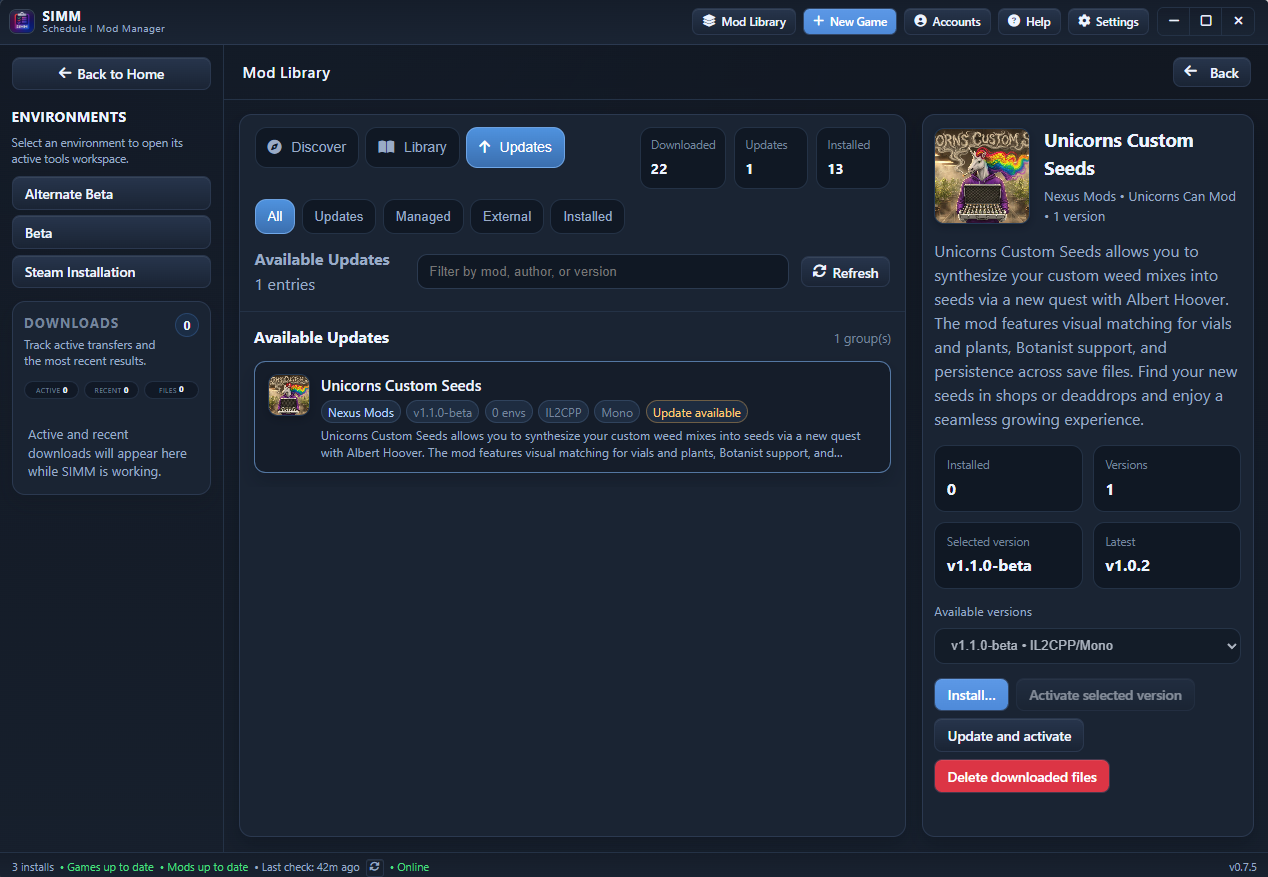
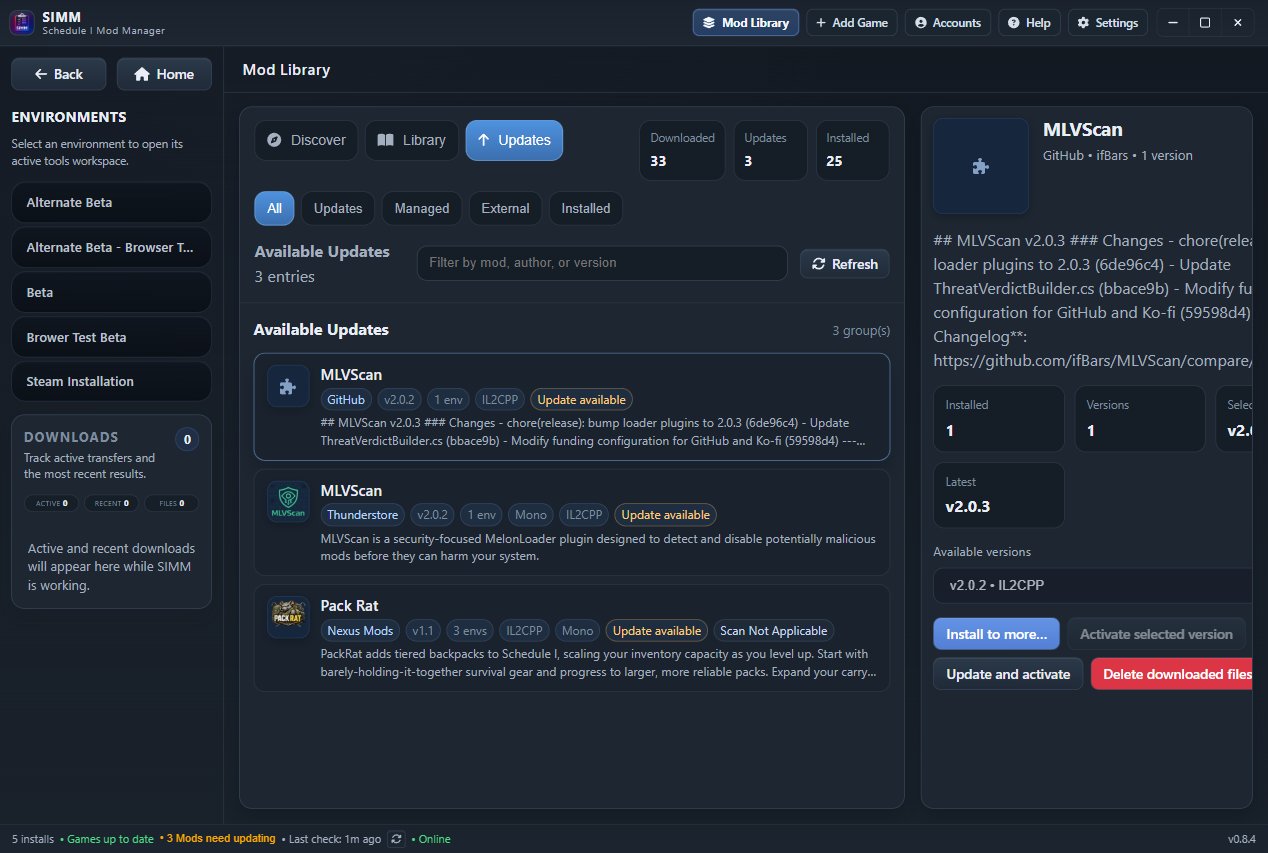
Use bun for Tauri builds; update docs/screenshots
Switch CI build steps from npm to bun for Tauri Windows/NSIS builds (updated .github/workflows/publish-beta-release.yml, publish-release.yml, windows-exe.yml). Updated CHANGELOG.md with new release notes (0.8.5–0.8.1) — note the file contains merge conflict markers from a merge/stash. Replaced a set of screenshots under assets/screenshots (multiple PNGs updated).

diff --git a/CHANGELOG.md b/CHANGELOG.md
@@ -1,5 +1,60 @@
 # Changelog
 
+<<<<<<< Updated upstream
+=======
+## [0.8.5]
+
+- Began the next UI redesign pass while refining release flow behavior, frontend contract sync, featured Thunderstore library curation, and related commit message handling.
+- Expanded the redesign into a new desktop workspace shell with a Home dashboard/news feed, reusable page headers, collapsible sidebar sections, focused environment interactions, refreshed overlay layouts, and supporting UI polish across the app.
+- Added installed-mod scan visibility, safer mod-path/security handling, and clearer UI loading states while tightening Mods and Logs behavior around the new shell.
+- Polished the configuration editor, downloads, MLVScan, logs, settings, and shared shell UX while reducing rerenders and commit cost in the heaviest desktop overlays.
+- Expanded the configuration catalog so SIMM now discovers nested `.cfg` and `.json` files inside the game's `Mods` directory and groups them by mod folder for clearer editor organization.
+- Started the Tailwind v4 + shadcn base-nova migration with shared SIMM primitives, migrated key desktop surfaces onto the new component foundation, and added opt-in React Scan profiling for frontend performance work.
+- Switched the frontend/dev workflow guidance over to `bun`/`bunx`, added project ESLint configuration, fixed mod source links and mod ownership checks, and temporarily disabled featured downloads until package data finishes loading.
+- Continued the shadcn/base-nova rollout across the app shell, Mods workspace, and Mod Library while tightening modal/dialog handling, navigation-state flow, and related shell behavior.
+- Added repo-local SIMM Codex workflow tooling with focused skills, playbooks, and validation helpers for desktop UI review, IPC contracts, runtime-library work, Nexus FOMOD debugging, and release updating.
+- Fixed managed-mod metadata precedence so installed mods prefer package/source details correctly, and replaced time-based archive temp directories with UUID-backed paths to avoid extraction collisions.
+- Finished the current CSS cleanup pass across the desktop shell and migrated surfaces, stabilizing layouts across viewports, pruning dead Tailwind-migration CSS, and aligning authentication, wizard, environment, plugin, welcome, and security-report screens with the newer shadcn/base-nova styling.
+- Improved runtime resilience by handling replayed Nexus OAuth callbacks safely, detecting uploaded mod archive types from file signatures before install/update flows proceed, and protecting ZIP extraction from path traversal during mod installs.
+- Tightened reviewed backend and desktop-shell behavior by preserving runtime-aware update fan-out, copied-storage ownership, installed scan summaries, rotated-log watching, security-scan overlay reset behavior, and other async/dialog polish surfaced during review.
+- Pinned the validated Bun toolchain in CI/docs, aligned release metadata around that workflow, and extended archive hardening so unsafe RAR entries are rejected before extraction.
+- Refined the Mod Library and Logs tools with smoother library workflows, tighter status alignment, and upward chunk loading so very large log files can be browsed without losing context.
+- Fixed ModsOverlay list structure and scrolling behavior inside environment overlays, stabilizing layout/CSS so long mod lists avoid clipping and remain usable across desktop viewports.
+- Hardened stored mod-state recovery by handling invalid storage metadata and metadata load failures more defensively instead of letting malformed package data break the app flow.
+- Contributors:
+  - `SirTidez`: release-flow refinement, frontend contract sync, featured SteamNetworkLib curation, related commit-message handling, nested Mods config catalog discovery/grouping, continued shadcn shell adoption across the app shell and mod workspaces, navigation-state and modal-flow fixes, repo-local SIMM Codex workflow tooling, managed-mod metadata precedence fixes, UUID-based temp-directory collision prevention during installs, ModsOverlay list-structure/layout CSS fixes for environment-overlay scrolling, ZIP-extraction path-traversal protection for mod installs, matching RAR-entry path-safety hardening before extraction, and defensive handling for invalid storage metadata and metadata load failures. Timestamps: `2026-05-03 17:27:10 PDT`, `2026-05-03 17:49:35 PDT`, `2026-05-03 18:12:00 PDT`, `2026-05-08 03:07:59 PDT`, `2026-05-08 19:19:22 PDT`, `2026-05-09 03:01:43 PDT`, `2026-05-09 03:14:24 PDT`, `2026-05-13 23:17:09 PDT`, `2026-05-15 03:09:17 PDT`, `2026-05-16 02:14:14 PDT`, `2026-05-16 12:27:08 PDT`
+  - `ifBars`: initial UI redesign work for the next release line, Home dashboard/news feed, new workspace shell and reusable page headers, collapsible sidebar navigation, installed-mod scanning and safer path/security flows, configuration/downloads/MLVScan/logs/settings polish, Tailwind v4 + shadcn migration scaffolding, shell/log/config performance work, `bun`/`bunx` workflow updates, ESLint setup, mods/webpanel fixes for source links, ownership checks, and featured-download loading states, finished CSS cleanup across migrated shell surfaces, stabilized cross-viewport desktop layout behavior, pruned dead Tailwind-migration CSS, refined Mod Library workflows/status alignment, added replay-safe Nexus OAuth callback handling, detected mod archive formats from file signatures, enabled upward chunk loading for large logs, preserved runtime-aware update/mod-watch behavior during review fixes, tightened async/dialog/accessibility handling across reviewed UI surfaces, reset security-scan overlay state on reopen, and pinned Bun plus release metadata to the validated workflow. Timestamps: `2026-05-04 01:38:44 PDT`, `2026-05-04 23:33:07 PDT`, `2026-05-04 23:41:24 PDT`, `2026-05-06 13:14:24 PDT`, `2026-05-06 18:29:16 PDT`, `2026-05-07 11:30:58 PDT`, `2026-05-07 11:34:33 PDT`, `2026-05-07 11:38:06 PDT`, `2026-05-07 11:39:52 PDT`, `2026-05-07 11:42:23 PDT`, `2026-05-07 11:45:32 PDT`, `2026-05-07 11:47:01 PDT`, `2026-05-07 11:51:51 PDT`, `2026-05-07 16:41:55 PDT`, `2026-05-07 16:56:07 PDT`, `2026-05-07 17:08:59 PDT`, `2026-05-07 17:16:10 PDT`, `2026-05-07 17:18:19 PDT`, `2026-05-07 17:32:55 PDT`, `2026-05-07 17:40:45 PDT`, `2026-05-07 17:45:38 PDT`, `2026-05-07 17:49:35 PDT`, `2026-05-07 17:51:48 PDT`, `2026-05-07 18:02:00 PDT`, `2026-05-07 18:13:07 PDT`, `2026-05-07 18:27:20 PDT`, `2026-05-07 21:48:13 PDT`, `2026-05-07 21:54:23 PDT`, `2026-05-10 19:56:54 PDT`, `2026-05-10 19:57:04 PDT`, `2026-05-10 21:51:20 PDT`, `2026-05-10 21:53:20 PDT`, `2026-05-10 21:53:29 PDT`, `2026-05-10 22:42:03 PDT`, `2026-05-10 23:22:33 PDT`, `2026-05-10 23:27:23 PDT`, `2026-05-12 22:05:00 PDT`, `2026-05-15 16:00:35 PDT`, `2026-05-15 16:00:52 PDT`, `2026-05-15 16:01:11 PDT`, `2026-05-15 18:30:29 PDT`, `2026-05-15 18:30:37 PDT`, `2026-05-15 19:43:17 PDT`
+
+## [0.8.4]
+
+- Finalized the `0.8.4` release bump by configuring FontAwesome in the app.
+- Contributors:
+  - `SirTidez`: `0.8.4` versioning work and FontAwesome configuration. Timestamps: `2026-04-22 22:40:35 PDT`
+
+## [0.8.3]
+
+- Added automatic prerequisite installation with more reliable `winget` path resolution during environment setup.
+- Lazy-loaded workspace panels, replaced older icon usage with FontAwesome, and refined the desktop workspace sidebar copy and styling.
+- Added a shared Thunderstore service and startup state handling while expanding Nexus Mods integration and UI behavior.
+- Contributors:
+  - `SirTidez`: prerequisite auto-install/`winget` fixes, lazy-loaded panels, FontAwesome adoption, shared Thunderstore startup state, broader Nexus UI integration, sidebar refinement, `0.8.3` versioning, and the branch merge that staged the `0.8.3` release line. Timestamps: `2026-04-17 23:21:29 PDT`, `2026-04-21 21:24:41 PDT`, `2026-04-22 19:24:12 PDT`, `2026-04-22 20:28:19 PDT`, `2026-04-22 21:03:42 PDT`, `2026-04-22 21:11:34 PDT`, `2026-04-22 21:25:05 PDT`
+
+## [0.8.2]
+
+- Centralized auth arguments, surfaced backend auth errors more clearly, and normalized release `PubDate` metadata for the `0.8.2` line.
+- Contributors:
+  - `SirTidez`: auth-argument cleanup, clearer backend auth errors, and `0.8.2` release metadata/versioning updates. Timestamps: `2026-04-17 12:50:23 PDT`, `2026-04-17 13:42:53 PDT`
+
+## [0.8.1]
+
+- Migrated app updates to the Tauri updater with release manifests, defaulted update checks to the beta channel, and tightened release validation/dev-startup behavior.
+- Hardened mod installs, library flows, theme bootstrap, environment creation/download follow-up, settings autosave, update metadata propagation, and mod-removal fallback behavior.
+- Expanded managed-storage mod support, Thunderstore metadata/version handling, nested DLL collection, S1API revision ordering, GitHub-backed mod updates, and Plugins/UserLibs bucket update checks.
+- Locked the frontend onto the Node 22 toolchain, refreshed dependencies, and finished the `0.8.1` release with CI repair and follow-up cleanup.
+- Contributors:
+  - `SirTidez`: Tauri updater migration, beta-channel defaults, release-validation fixes, hardened install/library/theme flows, environment/download follow-up fixes, settings/update cleanup, Thunderstore metadata and revision handling, nested DLL collection, S1API update detection, GitHub-backed mod updates, Plugins/UserLibs update checks, final CI repair, updater URL switching, dependency/env-list/library-summary refreshes, managed-storage companion-file support, and the branch merge that staged `0.8.1`. Timestamps: `2026-04-03 23:58:37 PDT`, `2026-04-04 00:15:18 PDT`, `2026-04-04 00:31:35 PDT`, `2026-04-04 02:04:16 PDT`, `2026-04-04 02:14:08 PDT`, `2026-04-04 11:59:06 PDT`, `2026-04-04 12:23:53 PDT`, `2026-04-05 00:11:56 PDT`, `2026-04-05 00:24:04 PDT`, `2026-04-05 01:05:22 PDT`, `2026-04-09 13:02:34 PDT`, `2026-04-09 14:28:24 PDT`, `2026-04-09 14:59:32 PDT`, `2026-04-09 15:51:41 PDT`, `2026-04-09 17:19:14 PDT`, `2026-04-09 17:31:03 PDT`, `2026-04-09 17:48:51 PDT`, `2026-04-09 18:04:17 PDT`, `2026-04-12 02:41:31 PDT`, `2026-04-12 02:55:37 PDT`, `2026-04-12 03:19:22 PDT`, `2026-04-12 03:51:34 PDT`, `2026-04-12 04:06:32 PDT`, `2026-04-12 13:59:12 PDT`, `2026-04-12 23:33:58 PDT`, `2026-04-13 17:36:06 PDT`, `2026-04-13 18:17:56 PDT`, `2026-04-13 18:43:20 PDT`
+
+>>>>>>> Stashed changes
 ## [0.8.0]
 
 - Added custom theme support with persisted user-defined palettes, expanded theme variable coverage across the desktop UI, and matching Settings/store/test updates so custom styling survives reloads and applies consistently.
